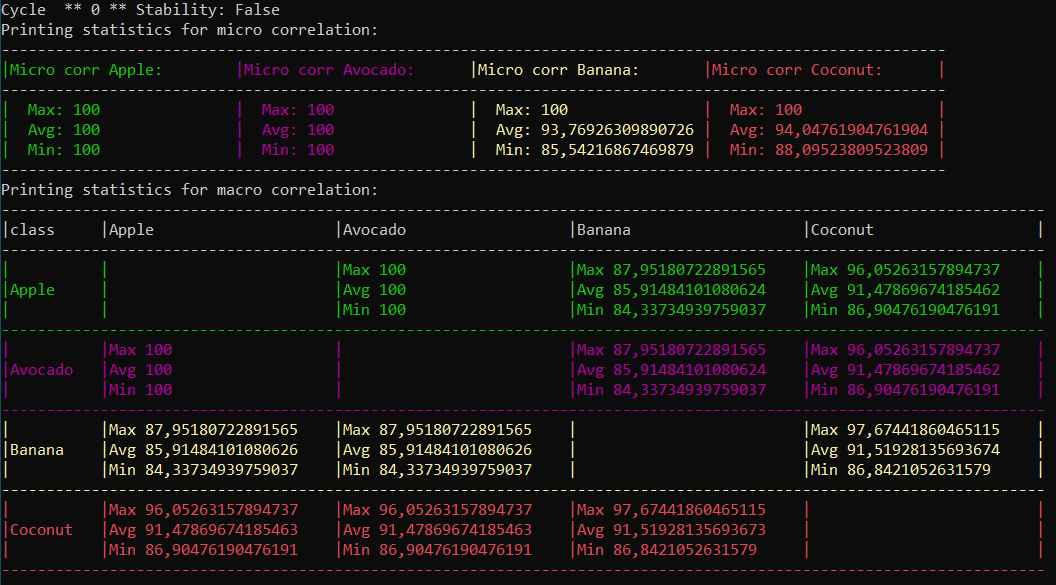
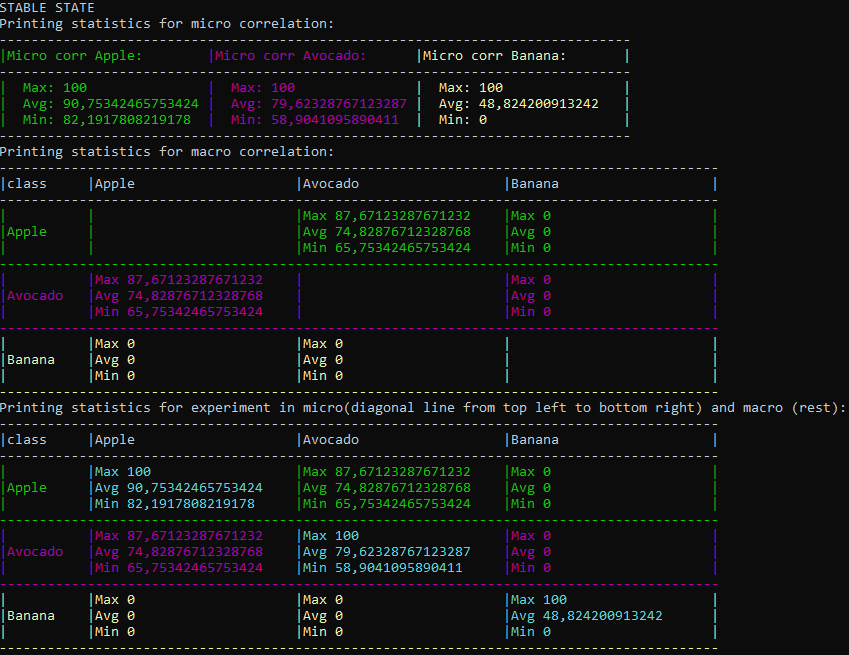
adding statistic for both macro and micro

diff --git a/ImageClassification/ImageClassification/HelpersTemp.cs b/ImageClassification/ImageClassification/HelpersTemp.cs
@@ -8,6 +8,34 @@ namespace ConsoleApp
 {
     internal class HelpersTemp
     {
+        public Dictionary<string, Dictionary<string, double>> GetStatistics(Dictionary<string, double> correlationInfo, List<string> classes)
+        {
+            Dictionary<string, Dictionary<string, double>> statistics = new Dictionary<string, Dictionary<string, double>>();
+            var filtered = correlationInfo.ToDictionary(p => p.Key, p => p.Value);
+            foreach (string label1 in classes)
+            {
+                foreach (string label2 in classes)
+                {
+                    var dic = filtered.Where(p =>
+                    {
+                        var hKey = p.Key.Split("__");
+                        if (hKey[0].Contains(label1) && hKey[1].Contains(label2))
+                        {
+                            return true;
+                        }
+                        return false;
+                    });
+                    var values = dic.ToDictionary(p => p.Key, p => p.Value).Values.ToList();
+                    var tempStat = new Dictionary<string, double>();
+                    tempStat["Max"] = values.Max();
+                    tempStat["Avg"] = values.Average();
+                    tempStat["Min"] = values.Min();
+                    string tempKey = $"{label1}__{label2}";
+                    statistics.Add(tempKey, tempStat);
+                }
+            }
+            return statistics;
+        }
         public Dictionary<string, Dictionary<string, double>> GetMicroStatistics(Dictionary<string, double> correlationInfo, List<string> classes)
         {
             Dictionary<string, Dictionary<string, double>> statistics = new Dictionary<string, Dictionary<string, double>>(); 
@@ -55,7 +83,7 @@ namespace ConsoleApp
             }
             return statistics;
         }
-
+        // inpuKey here are stored as Class1_imageName__Class2_imageName
         private bool SameKeyCheck(string inputKey, List<string> classes)
         {
             string[] key = inputKey.Split("__");
@@ -80,7 +108,7 @@ namespace ConsoleApp
         /// Print the Similarity representation of micro or macro correlation
         /// </summary>
         /// <param name="correlationInfo">correlation matrix dictionary with key as class1__class2</param>
-        /// <param name="mode">either "micro" or "macro"</param>
+        /// <param name="mode">either "micro";"macro" or "all"</param>
         /// <param name="classes">the classes that are being evaluated</param>
         public void printSimilarityMatrix(Dictionary<string,double> correlationInfo, string mode, List<string> classes)
         {
@@ -128,7 +156,7 @@ namespace ConsoleApp
                 var matrix = GetMacroStatistics(correlationInfo, classes);
                 // variables for table printing
                 string tempKey = $"{classes[0]}__{classes[1]}";
-                int firstColLength = 10;
+                int firstColLength = 20;
                 int cellLength = 25;
                 int lineLength = cellLength * classes.Count + firstColLength + 1 + 1+ classes.Count;
                 string dashLine = "";
@@ -141,7 +169,7 @@ namespace ConsoleApp
                 Console.WriteLine(dashLine);
                 
                 // Printing first headings
-                string heading = string.Format("|{0,-10}", "class");
+                string heading = string.Format("|{0,-20}", "class");
                 foreach(var classLabel in classes)
                 {
                     heading += string.Format("|{0,-25}", classLabel);
@@ -162,11 +190,11 @@ namespace ConsoleApp
                     {
                         if(tableIndex == (int)((double)matrix[tempKey].Count*((double)i+0.5)))
                         {
-                            corrTable.Add(string.Format("|{0,-10}", classes[i]));
+                            corrTable.Add(string.Format("|{0,-20}", classes[i]));
                         }
                         else
                         {
-                            corrTable.Add(string.Format("|{0,-10}", ""));
+                            corrTable.Add(string.Format("|{0,-20}", ""));
                         }
                         tableIndex+=1;
                     } 
@@ -220,6 +248,125 @@ namespace ConsoleApp
                         Console.WriteLine(dashLine);
                     }
                     lineIndex += 1;    
+                }
+                Console.ResetColor();
+            }
+            else if (mode == "both")
+            {
+                var matrix = GetStatistics(correlationInfo, classes);
+                // variables for table printing
+                string tempKey = $"{classes[0]}__{classes[1]}";
+                int firstColLength = 20;
+                int cellLength = 25;
+                int lineLength = cellLength * classes.Count + firstColLength + 1 + 1 + classes.Count; // 1 for the closing of the table and 1 for the first col
+                string dashLine = ""; // dash line is created the same length as lineLength
+                for (int i = 0; i < lineLength; i += 1)
+                {
+                    dashLine += "-";
+                }
+
+                Console.WriteLine("Printing statistics for experiment in micro(diagonal line from top left to bottom right) and macro (rest): ");
+                Console.WriteLine(dashLine);
+
+                // Printing first headings
+                string heading = string.Format("|{0,-20}", "class");
+                foreach (var classLabel in classes)
+                {
+                    heading += string.Format("|{0,-25}", classLabel);
+                }
+                heading += "|";
+                Console.WriteLine(heading);
+
+                // Printing the table
+                List<string> corrTable = new List<string>();
+                int tableIndex = 0;
+
+
+
+                // Printing the first classes collumn
+                for (int i = 0; i < classes.Count; i += 1)
+                {
+                    foreach (var statValue in matrix[tempKey])
+                    {
+                        if (tableIndex == (int)((double)matrix[tempKey].Count * ((double)i + 0.5)))
+                        {
+                            corrTable.Add(string.Format("|{0,-20}", classes[i]));
+                        }
+                        else
+                        {
+                            corrTable.Add(string.Format("|{0,-20}", ""));
+                        }
+                        tableIndex += 1;
+                    }
+                }
+
+                foreach (string classLabel1 in classes)
+                {
+                    tableIndex = 0;
+                    foreach (string classLabel2 in classes)
+                    {
+                        if (classLabel1 != classLabel2)
+                        {
+                            foreach (var statValue in matrix[$"{ classLabel1}__{classLabel2 }"])
+                            {
+
+                                corrTable[tableIndex] += String.Format("|{0,-25}", $"{statValue.Key} {statValue.Value}");
+                                tableIndex += 1;
+                            }
+                        }
+                        else
+                        {
+                            foreach (var statValue in matrix[$"{ classLabel1}__{classLabel2 }"])
+                            {
+
+                                corrTable[tableIndex] += String.Format(">|{0,-25}<", $"{statValue.Key} {statValue.Value}");
+                                tableIndex += 1;
+                            }
+                        }
+                    }
+                }
+                // Adding the last closing to the lines
+                tableIndex = 0;
+                for (int i = 0; i < classes.Count; i += 1)
+                {
+                    foreach (var statValue in matrix[tempKey])
+                    {
+                        corrTable[tableIndex] += "|";
+                        tableIndex += 1;
+                    }
+                }
+
+                // Print out the lines
+                int lineIndex = 0;
+                Console.WriteLine(dashLine);
+                foreach (var line in corrTable)
+                {
+                    if (lineIndex % matrix[tempKey].Count == 0)
+                    {
+                        Console.ForegroundColor = colorOrder[(lineIndex / 3) % colorOrder.Count];
+                    }
+                    foreach (char word in line)
+                    {
+                        if (word == '>')
+                        {
+                            Console.ForegroundColor = ConsoleColor.Cyan;
+                        }
+                        else if (word == '<')
+                        {
+                            Console.ForegroundColor = colorOrder[(lineIndex / 3) % colorOrder.Count];
+                        }
+                        else
+                        {
+                            Console.Write(word);
+                        }
+                    }
+                    Console.Write("\n");
+                    
+                    if ((lineIndex + 1) % matrix[tempKey].Count == 0)
+                    {
+                        Console.WriteLine(dashLine);
+                    }
+                    lineIndex += 1;
                 }
                 Console.ResetColor();
             }

diff --git a/ImageClassification/ImageClassification/Experiment.cs b/ImageClassification/ImageClassification/Experiment.cs
@@ -35,8 +35,7 @@ namespace ConsoleApp
 
             HelpersTemp helperFunc = new HelpersTemp();
 
-            Dictionary<string, double> microCorrelation = new();
-            Dictionary<string, double> macroCorrelation = new();
+            Dictionary<string, double> listCorrelation = new();
 
             foreach (KeyValuePair<string, List<string>> entry in inputsPath) // loop of the folder (classes) eg: Apple, banana, etc
             {
@@ -47,46 +46,28 @@ namespace ConsoleApp
                 for (int i = 0; i < numberOfImages; i++) // loop of the images inside the folder
                 {
                     if (!sdrs.TryGetValue(filePathList[i], out int[] sdr1)) continue;
-
+                    
                     foreach (KeyValuePair<string, List<string>> secondEntry in inputsPath) { // loop of the folder (again)
                         var classLabel2 = secondEntry.Key;
                         var filePathList2 = secondEntry.Value;
                         var numberOfImages2 = filePathList2.Count;
-
-                        if (classLabel.Equals(classLabel2))
-                        {
-                            // Microcorrelation
-                            for (int j = 0; j < numberOfImages2; j++) // loop of the images inside the folder
+                        for (int j = 0; j < numberOfImages2; j++) // loop of the images inside the folder
                             {
                                 if (!sdrs.TryGetValue(filePathList2[j], out int[] sdr2)) continue;
-
                                 string fileNameofFirstImage = Path.GetFileNameWithoutExtension(filePathList[i]);
                                 string fileNameOfSecondImage = Path.GetFileNameWithoutExtension(filePathList2[j]);
                                 string temp = $"{classLabel + fileNameofFirstImage}__{classLabel2 + fileNameOfSecondImage}";
 
-                                microCorrelation[temp] = MathHelpers.CalcArraySimilarity(sdr1, sdr2);
-                            }
-                        } else
-                        {
-                            // Macrocorrelation
-                            for (int j = 0; j < numberOfImages2; j++) // loop of the images inside the folder
-                            {
-                                if (!sdrs.TryGetValue(filePathList2[j], out int[] sdr2)) continue;
-
-                                string fileNameofFirstImage = Path.GetFileNameWithoutExtension(filePathList[i]);
-                                string fileNameOfSecondImage = Path.GetFileNameWithoutExtension(filePathList2[j]);
-                                string temp = $"{classLabel + fileNameofFirstImage}__{classLabel2 + fileNameOfSecondImage}";
-
-                                macroCorrelation.Add(temp, MathHelpers.CalcArraySimilarity(sdr1, sdr2));
-                            }
+                                listCorrelation.Add(temp, MathHelpers.CalcArraySimilarity(sdr1, sdr2));
                         }
                     }
                 }
             }
 
             var classes = inputsPath.Keys.ToList();
-            helperFunc.printSimilarityMatrix(microCorrelation, "micro", classes);
-            helperFunc.printSimilarityMatrix(macroCorrelation, "macro", classes);
+            helperFunc.printSimilarityMatrix(listCorrelation, "micro", classes);
+            helperFunc.printSimilarityMatrix(listCorrelation, "macro", classes);
+            helperFunc.printSimilarityMatrix(listCorrelation, "both", classes);
         }
 
         private Tuple<Dictionary<string, int[]>, Dictionary<string, List<string>>> imageBinarization(List<string> directories, int width, int height)
@@ -219,7 +200,7 @@ namespace ConsoleApp
             cortexLayer.HtmModules.Add("sp", sp);
 
             // Learning process will take 1000 iterations (cycles)
-            int maxSPLearningCycles = 1000;
+            int maxSPLearningCycles = 1;
 
             // Save the result SDR into a list of array
             Dictionary<string, int[]> outputValues = new Dictionary<string, int[]>();
